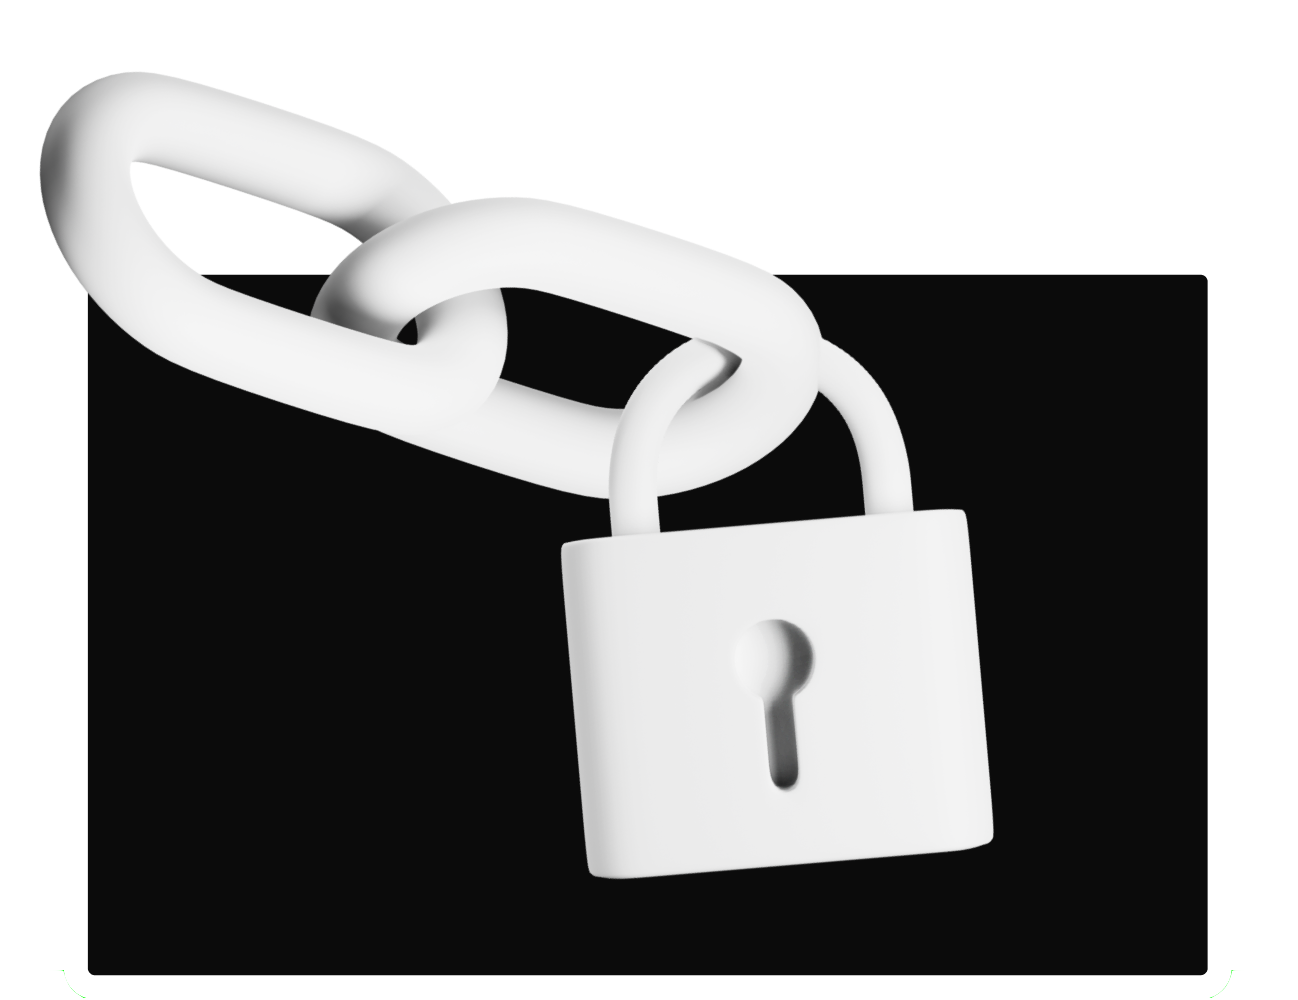
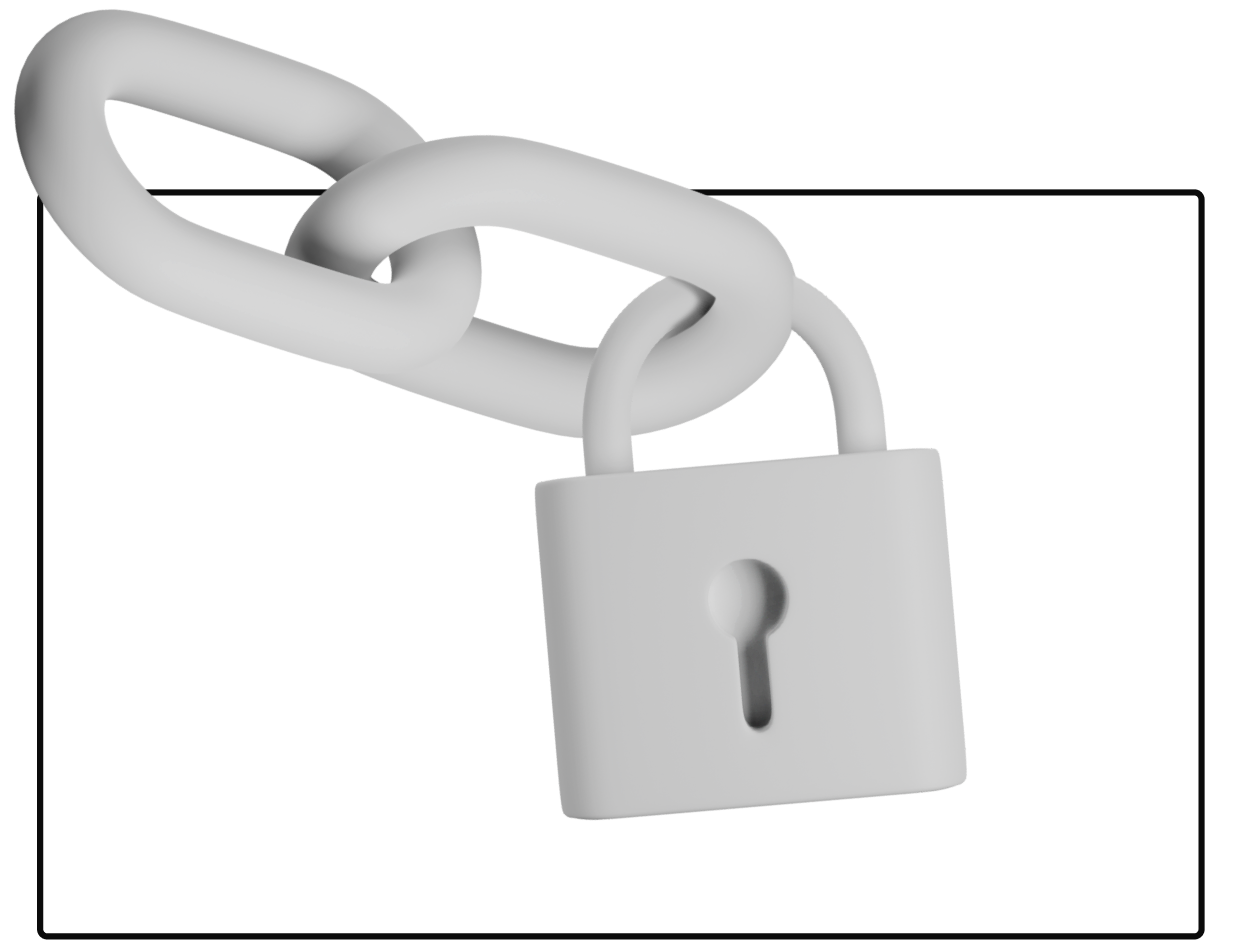
feat: update ui

diff --git a/website/src/components/HomepageFeatures/index.tsx b/website/src/components/HomepageFeatures/index.tsx
@@ -1,15 +1,20 @@
+import { useColorMode } from "@docusaurus/theme-common";
 import Heading from "@theme/Heading";
 import clsx from "clsx";
 
 import boxImage from "../../../static/img/box.png";
+import boxDarkImage from "../../../static/img/box_dark.png";
 import chainImage from "../../../static/img/chain.png";
+import chainDarkImage from "../../../static/img/chain_dark.png";
 import chartImage from "../../../static/img/chart.png";
+import chartDarkImage from "../../../static/img/chart_dark.png";
 
 import styles from "./styles.module.css";
 
 interface FeatureItem {
   title: string;
   img: string;
+  imgDark: string;
   description: JSX.Element;
 }
 
@@ -17,6 +22,7 @@ const FeatureList: FeatureItem[] = [
   {
     title: "Highly secure",
     img: boxImage as string,
+    imgDark: boxDarkImage as string,
     description: (
       <>
         MACI was designed to be a secure voting system. It is built using smart contracts on the Ethereum blockchain,
@@ -27,6 +33,7 @@ const FeatureList: FeatureItem[] = [
   {
     title: "Protects privacy",
     img: chainImage as string,
+    imgDark: chainDarkImage as string,
     description: (
       <>
         With MACI, votes are encrypted before submitting them on-chain to ensure that your privacy is preserved when
@@ -37,6 +44,7 @@ const FeatureList: FeatureItem[] = [
   {
     title: "Powered by zk-SNARKs",
     img: chartImage as string,
+    imgDark: chartDarkImage as string,
     description: (
       <>
         MACI is powered by zk-SNARKs, a cutting edge cryptographic technology that ensures votes are counted correctly
@@ -46,19 +54,25 @@ const FeatureList: FeatureItem[] = [
   },
 ];
 
-const Feature = ({ title, img, description }: FeatureItem) => (
-  <div className={clsx("col col--4")}>
-    <div className="text--center">
-      <img alt={title} className={styles.featureSvg} src={img} />
-    </div>
+const Feature = ({ title, img, imgDark, description }: FeatureItem) => {
+  const { isDarkTheme } = useColorMode();
 
-    <div className="text--center padding-horiz--md">
-      <Heading as="h3">{title}</Heading>
+  return (
+    <div className={clsx("col col--4")}>
+      <div className="text--center">
+        <img alt={title} className={styles.featureImg} src={isDarkTheme ? imgDark : img} />
+      </div>
 
-      <p>{description}</p>
+      <div className="text--center padding-horiz--md">
+        <Heading as="h3" className={styles.featureTitle}>
+          {title}
+        </Heading>
+
+        <p>{description}</p>
+      </div>
     </div>
-  </div>
-);
+  );
+};
 
 const HomepageFeatures = (): JSX.Element => (
   <section className={styles.features}>

diff --git a/website/src/pages/index.module.css b/website/src/pages/index.module.css
@@ -9,23 +9,30 @@
   overflow: hidden;
   background-image: linear-gradient(to bottom, rgba(0, 0, 0, 0.3) 0%, rgba(0, 0, 0, 0.3) 100%),
     url("../../static/img/hero.svg");
-  background-position: center;
+  background-position: 0% 75%;
   background-repeat: no-repeat;
   background-size: cover;
   flex-direction: column;
   justify-content: center;
   align-items: start;
   padding: 8rem;
+  color: var(--ifm-color-hero);
+  font-family: ShareTechMono;
+  gap: 1rem;
 }
 
 .heroTitle {
   border: 2px solid white;
   border-radius: 4px;
-  padding: 0rem 0.5rem;
+  padding: 0rem 0.75rem;
+  font-size: 2.5rem;
+  line-height: 3.5rem;
+  letter-spacing: -0.1rem;
 }
 
-.heroColor {
-  color: var(--ifm-color-hero);
+.heroTagline {
+  font-size: 4.5rem;
+  line-height: 5rem;
 }
 
 .buttons {
@@ -46,9 +53,9 @@
 }
 
 .borderBlue {
-  width: max-content;
-  border-bottom: 3px solid var(--ifm-link-color);
-  box-sizing: content-box;
+  text-decoration: underline;
+  text-decoration-color: var(--ifm-link-color);
+  text-underline-offset: 0.5rem;
   margin-bottom: 1rem;
 }
 
@@ -59,5 +66,16 @@
 
   .introduction {
     padding: 1.5rem;
+  }
+
+  .heroTitle {
+    font-size: 1.5rem;
+    line-height: 2.25rem;
+    padding: 0rem 0.5rem;
+  }
+
+  .heroTagline {
+    font-size: 2.5rem;
+    line-height: 3rem;
   }
 }

diff --git a/website/src/css/custom.css b/website/src/css/custom.css
@@ -28,7 +28,7 @@
   --ifm-footer-background-color: #020203;
   --ifm-footer-color: #ffffff;
   --ifm-footer-link-color: #ffffff;
-  --ifm-footer-link-hover-color: #ffffff;
+  --ifm-footer-link-hover-color: #579bea;
   --ifm-link-color: #579bea;
   --ifm-color-hero: #fcfcfc;
   --ifm-font-family-base: DMSans;
@@ -57,6 +57,21 @@ h2 {
   font-size: 3rem;
   margin: 0;
   color: var(--ifm-color-primary);
+}
+
+h3 {
+  font-family: ShareTechMono;
+  color: var(--ifm-color-primary);
+}
+
+h4 {
+  font-family: ShareTechMono;
+  color: var(--ifm-color-primary);
+  font-size: 1.25rem;
+}
+
+nav {
+  font-family: ShareTechMono;
 }
 
 @media screen and (max-width: 996px) {

diff --git a/website/src/pages/index.tsx b/website/src/pages/index.tsx
@@ -13,15 +13,13 @@ interface HomepageHeaderProps {
 
 const HomepageHeader = ({ tagline, title }: HomepageHeaderProps) => (
   <header className={clsx("hero hero--dark", styles.heroBanner)}>
-    <div className={styles.heroTitle}>
-      <h2 className={styles.heroColor}>{title}</h2>
-    </div>
+    <div className={styles.heroTitle}>{title}</div>
 
-    <h1 className={styles.heroColor}>
+    <div className={styles.heroTagline}>
       {tagline}
 
       <span className={styles.blue}>.</span>
-    </h1>
+    </div>
   </header>
 );
 

diff --git a/website/src/components/HomepageFeatures/styles.module.css b/website/src/components/HomepageFeatures/styles.module.css
@@ -5,6 +5,12 @@
   width: 100%;
 }
 
-.featureSvg {
+.featureImg {
   width: 200px;
+}
+
+.featureTitle {
+  text-decoration: underline;
+  text-decoration-color: var(--ifm-link-color);
+  text-underline-offset: 0.5rem;
 }
